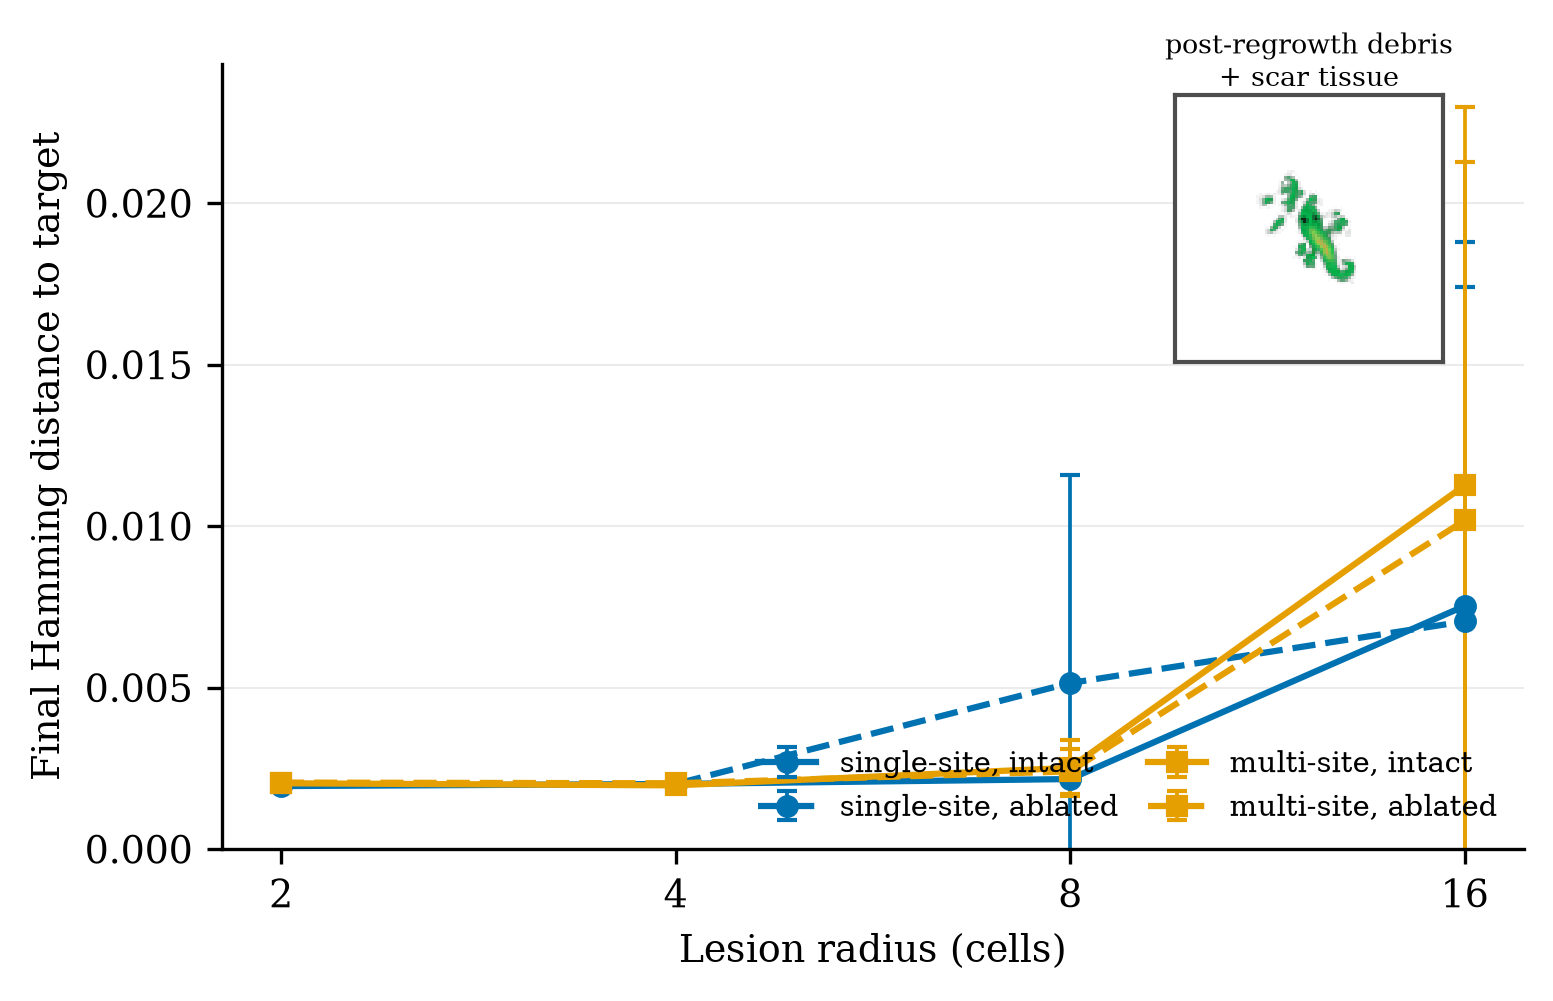
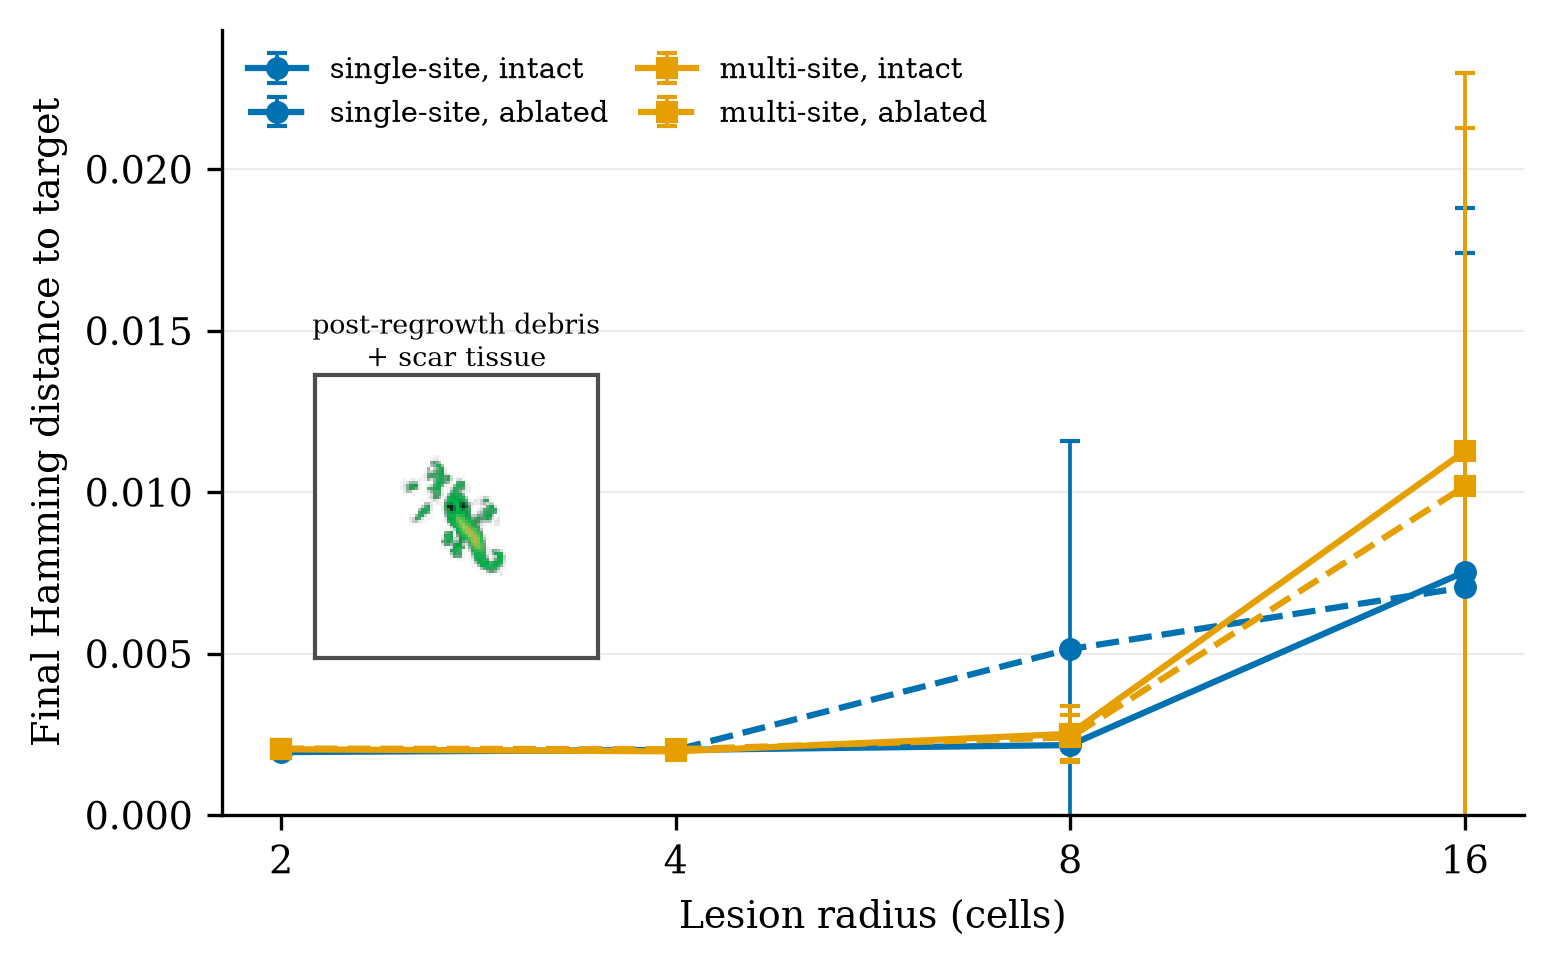
fix(paper): fig1 inset moved to left edge (was mid-graph)
Per visual review: debris inset was sitting in the middle after the legend
moved to upper-left. Now hugs the left spine (axes-fraction x=0.03) at the
same height, clear of the rising curves.

diff --git a/paper_drafts/make_figures.py b/paper_drafts/make_figures.py
@@ -66,15 +66,16 @@ ax.set_xticks(radii); ax.set_xticklabels(radii)
 ax.set_xlabel("Lesion radius (cells)")
 ax.set_ylabel("Final Hamming distance to target")
 ax.set_ylim(0, None)
-# Curves rise left-to-right, so lower-right (below the high-radius points) is clear.
-ax.legend(frameon=False, ncol=2, fontsize=7, loc="lower right",
+# Top-left: low-radius points sit near zero here, curves rise to the right.
+ax.legend(frameon=False, ncol=2, fontsize=7, loc="upper left",
           handlelength=2.0, columnspacing=1.0, borderpad=0.4)
 ax.grid(True, which="both", axis="y", alpha=0.25, lw=0.5)
 
-# Inset: debris/scar frame, upper-right corner (curves are low there). Small + bordered.
+# Inset: debris/scar frame. Moved left + slightly up (legend now occupies upper-left,
+# so the inset sits in the mid-left band where small-radius curves are low/near zero).
 rec = imageio.mimread("results_local/e0_lr1e3/recovery.gif")
 frame = rec[-1][:, 0:96]  # last frame, first recovery sample
-axin = ax.inset_axes([0.70, 0.62, 0.27, 0.34])
+axin = ax.inset_axes([0.03, 0.20, 0.30, 0.36])
 axin.imshow(frame, interpolation="nearest")
 axin.set_xticks([]); axin.set_yticks([])
 for spine in axin.spines.values():
@@ -111,14 +112,14 @@ for t in range(150, 2000, 150):
 ax.set_xlabel("NCA step")
 ax.set_ylabel("Hamming distance to target")
 ax.set_xlim(0, 2000)
-# Modulated curves sit at ~0.03 (lower-left clear); random is up at ~0.8 (upper).
-ax.legend(frameon=False, fontsize=7.5, loc="center right", ncol=1,
-          handlelength=1.8, borderpad=0.3)
+# Legend pushed down ~1.2 of its own heights from upper-left, toward graph center.
+# bbox_to_anchor in axes-fraction: x=0.0 (left edge), y=0.62 (~1.2 legend-heights down).
+ax.legend(frameon=False, fontsize=7.5, loc="upper left", ncol=1,
+          handlelength=1.8, borderpad=0.3, bbox_to_anchor=(0.05, 0.50))
 ax.grid(True, axis="y", alpha=0.25, lw=0.5)
 
-# Inset: zoom on the low-Hamming range, lower-right (random's variance band is
-# narrower there than mid-canvas). Bordered, opaque, own readable labels.
-axin = ax.inset_axes([0.55, 0.08, 0.42, 0.38])
+# Inset: zoom on the low-Hamming range, right side. Moved up ~0.3 of its own height.
+axin = ax.inset_axes([0.55, 0.20, 0.42, 0.38])
 for cond, color, ls, lab in order[:4]:  # exclude random
     steps = sorted(next(iter(runs[cond].values())).keys())
     M = np.array([[series[s] for s in steps] for series in runs[cond].values()])
@@ -164,14 +165,18 @@ ax.plot(gen, mean, color=C_GREY, lw=0.8, label="population mean")
 ax.plot(gen, big, color=C_ORANGE, lw=0.8, alpha=0.55, label="best in generation")
 ax.plot(gen, bsf, color=C_BLUE, lw=1.7, label="best so far")
 ax.axhline(0.0205, color=C_RED, ls="--", lw=1.0, label="neutral controller (0.0205)")
-# Annotation pulled up-left, away from the dense gen 250-300 region.
-ax.annotate("best = 0.0135", xy=(299, 0.0135), xytext=(180, 0.0162),
+# Point the arrow at the ACTUAL lowest point (true min of best-so-far), not the endpoint.
+min_idx = int(np.argmin(bsf))
+min_gen, min_val = gen[min_idx], bsf[min_idx]
+ax.annotate(f"best = {min_val:.4f}", xy=(min_gen, min_val),
+            xytext=(min_gen - 130, min_val - 0.0008),
             arrowprops=dict(arrowstyle="->", lw=0.7, color="0.3"), fontsize=8)
 ax.set_xlabel("Generation")
 ax.set_ylabel("Event-weighted fitness (Hamming)")
 ax.set_ylim(0.012, 0.023)
-# Curves descend left-to-right; upper-right is empty after gen ~50.
-ax.legend(frameon=False, fontsize=7.5, loc="upper right", handlelength=1.8)
+# Small legend, tucked tight into the top-right corner (curves descend, so empty there).
+ax.legend(frameon=False, fontsize=6.5, loc="upper right", handlelength=1.5,
+          borderpad=0.2, labelspacing=0.3)
 ax.grid(True, axis="y", alpha=0.25, lw=0.5)
 fig.savefig(OUT / "fig4_evolution_trajectory.png")
 plt.close(fig)
